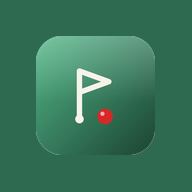
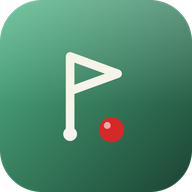
Add files via upload

diff --git a/index.html b/index.html
@@ -6,10 +6,10 @@
 <meta name="apple-mobile-web-app-capable" content="yes">
 <meta name="mobile-web-app-capable" content="yes">
 <meta name="apple-mobile-web-app-status-bar-style" content="black-translucent">
-<meta name="apple-mobile-web-app-title" content="SwingUp Télémètre">
+<meta name="apple-mobile-web-app-title" content="SwingUp - Télémètre">
 <meta name="theme-color" content="#1b4332">
 <meta name="description" content="Télémètre de golf : distances aux greens, dénivelé et club conseillé, sur vue satellite.">
-<title>SwingUp — Télémètre</title>
+<title>SwingUp - Télémètre</title>
 <link rel="manifest" href="manifest.json">
 <link rel="icon" href="favicon.ico" sizes="any">
 <link rel="apple-touch-icon" href="icons/icon-180.png">
@@ -35,7 +35,7 @@ body{font-family:'Outfit',system-ui,-apple-system,sans-serif;color:var(--ink);
 .hidden{display:none!important}
 .mark{border-radius:6px;flex:0 0 auto;display:grid;place-items:center;overflow:hidden;
   background:linear-gradient(145deg,#52b788,#1b4332);box-shadow:inset 0 1px 0 rgba(255,255,255,.25),0 10px 22px -10px rgba(0,0,0,.6)}
-.mark img{width:100%;height:100%;object-fit:cover;display:block}
+.mark svg{width:60%;height:60%}
 
 /* ================= connexion ================= */
 #auth{position:fixed;inset:0;z-index:900;overflow-y:auto;display:flex;flex-direction:column;justify-content:center;
@@ -72,18 +72,23 @@ body{font-family:'Outfit',system-ui,-apple-system,sans-serif;color:var(--ink);
 
 /* ================= application ================= */
 #app{height:100dvh;display:flex;flex-direction:column;max-width:560px;margin:0 auto;position:relative}
-.topbar{flex:0 0 auto;display:flex;align-items:center;gap:12px;
-  padding:calc(12px + env(safe-area-inset-top)) 16px 12px;
-  background:linear-gradient(180deg,rgba(15,42,26,.97) 0%,rgba(15,42,26,.9) 70%,rgba(15,42,26,.82) 100%);
-  -webkit-backdrop-filter:blur(10px);backdrop-filter:blur(10px)}
-.topbar .mark{width:42px;height:42px}
-.tbmeta{flex:1;min-width:0}
-.tbmeta .l1{color:var(--cream);font-family:var(--serif);font-weight:600;font-size:1.02rem;line-height:1.1;white-space:nowrap;overflow:hidden;text-overflow:ellipsis}
-.tbmeta .l2{color:var(--green-glow);font-size:.68rem;font-weight:600;letter-spacing:.14em;text-transform:uppercase;margin-top:4px;white-space:nowrap;overflow:hidden;text-overflow:ellipsis}
-.acctbtn{flex:0 0 auto;display:flex;align-items:center;gap:8px;background:rgba(246,243,233,.12);border:none;border-radius:999px;padding:5px 5px 5px 11px;cursor:pointer;color:var(--cream);font-family:'Outfit',sans-serif;font-size:.8rem;font-weight:600;max-width:132px}
+header{flex:0 0 auto;padding:calc(14px + env(safe-area-inset-top)) 14px 12px;display:flex;align-items:center;gap:12px}
+header .mark{width:46px;height:46px}
+.brand{flex:1;min-width:0}
+.brand h1{font-family:var(--serif);font-weight:900;color:var(--cream);font-size:1.32rem;line-height:1;letter-spacing:-.01em;white-space:nowrap;overflow:hidden;text-overflow:ellipsis}
+.brand p{color:var(--green-glow);font-size:.72rem;font-weight:500;letter-spacing:.18em;text-transform:uppercase;margin-top:5px;white-space:nowrap;overflow:hidden;text-overflow:ellipsis}
+.betapill{flex:0 0 auto;align-self:center;margin-left:2px;font-size:.58rem;font-weight:700;letter-spacing:.14em;
+  text-transform:uppercase;color:var(--green-deep);background:var(--green-glow);padding:3px 8px;border-radius:999px}
+.betapill.hidden{display:none}
+.acctbtn{flex:0 0 auto;display:flex;align-items:center;gap:8px;background:rgba(246,243,233,.12);border:none;border-radius:999px;padding:6px 6px 6px 12px;cursor:pointer;color:var(--cream);font-family:'Outfit',sans-serif;font-size:.82rem;font-weight:600;max-width:150px}
 .acctbtn .who{overflow:hidden;text-overflow:ellipsis;white-space:nowrap}
-.acctbtn .av{width:28px;height:28px;border-radius:50%;flex:0 0 auto;display:grid;place-items:center;background:linear-gradient(145deg,#52b788,#1b4332);font-family:var(--serif);font-weight:900;font-size:.85rem;color:#fff}
-.propill{font-size:.56rem;font-weight:700;letter-spacing:.12em;text-transform:uppercase;background:rgba(201,162,39,.24);color:#f0d878;padding:3px 7px;border-radius:999px}
+.acctbtn .av{width:30px;height:30px;border-radius:50%;flex:0 0 auto;display:grid;place-items:center;background:linear-gradient(145deg,#52b788,#1b4332);font-family:var(--serif);font-weight:900;font-size:.9rem;color:#fff}
+.propill{font-size:.58rem;font-weight:700;letter-spacing:.12em;text-transform:uppercase;background:rgba(201,162,39,.22);color:#8a6f00;padding:3px 8px;border-radius:999px;margin-left:2px}
+.accbtns{display:grid;gap:8px;margin-top:14px}
+.accbtns .btn{width:100%}
+.hintsm{font-size:.74rem;color:#8b8770;line-height:1.4;margin-top:10px}
+.modpriv{text-align:center;margin-top:14px;font-size:.76rem}
+.modpriv a{color:#8b8770;text-decoration:underline;text-underline-offset:3px}
 
 /* ---------- carte ---------- */
 #map{flex:1 1 auto;min-height:0;position:relative;overflow:hidden;background:#0b1f16;touch-action:none}
@@ -287,7 +292,7 @@ body{font-family:'Outfit',system-ui,-apple-system,sans-serif;color:var(--ink);
 <section id="auth" class="hidden">
   <div class="auth-wrap">
     <div class="auth-head">
-      <div class="mark"><img src="icons/icon-192.png" alt=""></div>
+      <div class="mark"><svg viewBox="0 0 24 24" fill="none"><path d="M6 21V3l11 4-11 4" stroke="#f6f3e9" stroke-width="2" stroke-linejoin="round"/><circle cx="6" cy="21" r="1.6" fill="#f6f3e9"/><circle cx="14" cy="19" r="2.6" fill="#d62828"/></svg></div>
       <h1 data-t>Télémètre</h1>
       <p data-t id="authTagline">Connecte-toi pour retrouver tes parcours</p>
     </div>
@@ -328,14 +333,12 @@ body{font-family:'Outfit',system-ui,-apple-system,sans-serif;color:var(--ink);
 <!-- ====================== APPLICATION ====================== -->
 <div id="app" class="hidden">
 
-  <div class="topbar">
-    <div class="mark"><img src="icons/icon-192.png" alt=""></div>
-    <div class="tbmeta">
-      <div class="l1" data-t>Télémètre</div>
-      <div class="l2" id="courseName" data-t>Chargement des parcours…</div>
-    </div>
-    <button class="acctbtn" id="btnAcct"><span class="who" id="acctWho">—</span><span class="av" id="acctAv">?</span></button>
-  </div>
+  <header>
+    <div class="mark"><svg viewBox="0 0 24 24" fill="none"><path d="M6 21V3l11 4-11 4" stroke="#f6f3e9" stroke-width="2" stroke-linejoin="round"/><circle cx="6" cy="21" r="1.6" fill="#f6f3e9"/><circle cx="14" cy="19" r="2.6" fill="#d62828"/></svg></div>
+    <div class="brand"><h1 data-t>Télémètre</h1><p id="courseName" data-t>Chargement des parcours…</p></div>
+    <span class="betapill hidden" id="betaPill">Bêta</span>
+    <button class="acctbtn" id="btnAcct" aria-label="Mon compte"><span class="who" id="acctWho">—</span><span class="av" id="acctAv">?</span></button>
+  </header>
 
   <div id="map">
     <div id="mapInner"></div>
@@ -428,7 +431,7 @@ body{font-family:'Outfit',system-ui,-apple-system,sans-serif;color:var(--ink);
 <!-- ====================== SAC ====================== -->
 <div id="bag" role="dialog">
   <div id="bagTop">
-    <div class="mark"><img src="icons/icon-192.png" alt=""></div>
+    <div class="mark"><svg viewBox="0 0 24 24" fill="none"><path d="M6 21V3l11 4-11 4" stroke="#f6f3e9" stroke-width="2" stroke-linejoin="round"/><circle cx="6" cy="21" r="1.6" fill="#f6f3e9"/><circle cx="14" cy="19" r="2.6" fill="#d62828"/></svg></div>
     <h2 data-t>Mon sac</h2>
     <button class="tbtn" id="bagClose" data-t>Fermer</button>
   </div>
@@ -493,7 +496,7 @@ body{font-family:'Outfit',system-ui,-apple-system,sans-serif;color:var(--ink);
 <script>
 /* Numéro de version : à comparer avec celui affiché dans le diagnostic
    pour vérifier que le téléphone sert bien la dernière mise en ligne. */
-const BUILD = 'tel-2026-08-14-b';
+const BUILD = 'tel-2026-08-14-d';
 
 /* Capture des erreurs le plus tôt possible : une erreur de syntaxe dans
    la configuration collée casse tout le script, et sans ça l'écran reste
@@ -550,7 +553,26 @@ const ARCGIS = { key:'A_REMPLIR' };
    Laisser A_REMPLIR retombe sur l'ancien circuit (fenêtre / redirection).
    ======================================================================= */
 const GOOGLE = { clientId:'287840826427-4vmhf2pgan0v5hqhab66hhmuivvmil7d.apps.googleusercontent.com' };
-const gisPret = () => GOOGLE.clientId && GOOGLE.clientId.indexOf('A_REMPLIR') < 0;
+
+/* =======================================================================
+   ▼▼▼  MÉTHODE DE CONNEXION GOOGLE  ▼▼▼
+
+   'firebase' — identique à SwingUpPro : signInWithPopup, puis redirection
+                si la fenêtre est refusée. Rien à configurer côté Google
+                Cloud. En revanche tout transite par firebaseapp.com, que
+                Chrome cloisonne : la connexion Google échoue dans
+                l'application installée sur mobile.
+
+   'google'   — Google Identity Services. Fonctionne partout, y compris en
+                application installée, mais impose de renseigner l'écran de
+                consentement OAuth (Branding + Audience) dans Google Cloud.
+
+   Dans les deux cas, la connexion par e-mail fonctionne sans restriction.
+   ======================================================================= */
+const AUTH_MODE = 'firebase';
+
+const gisPret = () => AUTH_MODE === 'google'
+  && GOOGLE.clientId && GOOGLE.clientId.indexOf('A_REMPLIR') < 0;
 
 /* =======================================================================
    ▼▼▼  ABONNEMENT PREMIUM — compte Stripe PROPRE au télémètre  ▼▼▼
@@ -591,7 +613,7 @@ en:{
 'Adresse e-mail':'Email address','Mot de passe':'Password','ou':'or',
 'Continuer avec Google':'Continue with Google','Mot de passe oublié ?':'Forgot your password?',
 'Continuer sans compte':'Continue without an account',
-'Sans compte, tes greens restent sur cet appareil.':'Without an account, your greens stay on this device.',
+'Sans abonnement, les greens ne sont pas conservés.':'Without an account, your greens stay on this device.',
 'Avec un compte Premium, ils te suivent partout.':'With a Premium account, they follow you everywhere.',
 'Politique de confidentialité':'Privacy policy','Chargement des parcours…':'Loading courses…',
 'Parcours chargés':'Courses loaded','Aucun parcours trouvé':'No course found',
@@ -619,13 +641,20 @@ en:{
 'Gérer mon abonnement':'Manage my subscription','Premium activé':'Premium activated',
 'Greens synchronisés':'Greens synced','Hors ligne : synchro différée':'Offline: sync deferred',
 'Le paiement arrive bientôt.':'Payment is coming soon.',
-'Tes greens sont enregistrés sur cet appareil uniquement.':'Your greens are saved on this device only.',
+'Tes greens ne sont pas conservés.':'Your greens are not kept.',
 'Tes greens sont sauvegardés sur ton compte.':'Your greens are backed up to your account.',
 'Sauvegarde et synchronisation':'Backup and sync',
-'Tes greens tracés te suivent sur tous tes appareils, et rien ne se perd si tu changes de téléphone.':'Your greens follow you on every device, and nothing is lost if you change phone.',
+'Sans abonnement, les greens que tu traces disparaissent à la fermeture. Avec Premium, ils sont conservés et te suivent sur tous tes appareils.':'Without a subscription, the greens you map are lost when you close the app. With Premium they are kept and follow you on every device.',
 'Parcours illimités':'Unlimited courses','Cartographie sans limite de nombre de greens.':'Map as many greens as you like.',
 'Mesure et création restent gratuites':'Measuring and mapping stay free',
 "L'abonnement ne porte que sur la sauvegarde en ligne.":'The subscription only covers online backup.',
+'Accès complet offert':'Full access included',"jusqu'au":'until','Offre gratuite':'Free plan',
+'Greens non sauvegardés':'Greens are not saved','Découvrir Premium':'Discover Premium',
+'Connecté·e en tant que':'Signed in as','Ton nom':'Your name','Nom mis à jour':'Name updated',
+'Accès bêta-testeur':'Beta tester access',"Accès complet conservé, sans abonnement. Merci d'avoir été là au début.":'Full access kept, no subscription. Thank you for being there at the start.',
+"Période d'essai":'Trial period','Mode invité':'Guest mode',
+"Ton compte utilise la connexion Google : l'adresse e-mail et le mot de passe se gèrent depuis ton compte Google.":'Your account uses Google sign-in: email and password are managed from your Google account.',
+'{n} green(s) tracé(s) — non sauvegardés. Ils disparaîtront à la fermeture.':'{n} green(s) mapped — not saved. They will be lost when you close the app.',
 'Créer un compte pour sauvegarder':'Create an account to save'
 },
 
@@ -667,9 +696,9 @@ const Store=(()=>{let mem={},ok=true;
          del(k){try{ok?localStorage.removeItem(k):delete mem[k]}catch(e){delete mem[k]}}};
 })();
 
+/* La langue suit celle du téléphone, comme dans SwingUpPro :
+   aucun sélecteur, aucun réglage à mémoriser. */
 function langueParDefaut(){
-  const choisi=Store.get('lang');
-  if(choisi&&LANGUES.indexOf(choisi)>=0)return choisi;
   const n=((navigator.languages&&navigator.languages[0])||navigator.language||LANGUE_DEFAUT).slice(0,2).toLowerCase();
   return LANGUES.indexOf(n)>=0?n:LANGUE_DEFAUT;
 }
@@ -783,9 +812,9 @@ function ecranPremium(origine){
   openModal('<h3>'+esc(PREMIUM.name)+'</h3>'
     +'<p class="txt">'+esc(origine||T("L'abonnement ne porte que sur la sauvegarde en ligne."))+'</p>'
     +'<div class="plan">'
-    +feat(T('Sauvegarde et synchronisation'),T('Tes greens tracés te suivent sur tous tes appareils, et rien ne se perd si tu changes de téléphone.'))
+    +feat(T('Sauvegarde et synchronisation'),T('Sans abonnement, les greens que tu traces disparaissent à la fermeture. Avec Premium, ils sont conservés et te suivent sur tous tes appareils.'))
     +feat(T('Parcours illimités'),T('Cartographie sans limite de nombre de greens.'))
-    +feat(T('Mesure et création restent gratuites'),T("L'abonnement ne porte que sur la sauvegarde en ligne."))
+    +feat(T('Mesure et cartographie restent gratuites'),T("L'abonnement ne porte que sur la conservation de tes tracés."))
     +'<div class="price">'+esc(PREMIUM.price)+'</div><p class="pnote">'+esc(PREMIUM.note)+'</p></div>'
     +(BETA.actif?'<div class="subline on"><b>'+esc(T('Version bêta'))+'</b><span>'+esc(T('Tout est ouvert jusqu\'au {d}.',{d:BETA.fin}))+'</span></div>':'')
     +'<div class="row">'
@@ -896,9 +925,13 @@ function initGIS(){
    fermée par le navigateur avant d'avoir rendu la main : on redirige.
    Le résultat est récupéré au retour par getRedirectResult(). */
 function popupPossible(){
+  /* En mode 'firebase', on reproduit SwingUpPro : la fenêtre surgissante
+     est tentée en premier, sauf en application installée où elle n'existe
+     pas et où seule la redirection peut aboutir. */
   const standalone = matchMedia('(display-mode: standalone)').matches
     || matchMedia('(display-mode: fullscreen)').matches
     || navigator.standalone === true;
+  if (AUTH_MODE === 'firebase') return !standalone;
   const mobile = /Android|iPhone|iPad|iPod|Mobile/i.test(navigator.userAgent);
   return !standalone && !mobile;
 }
@@ -938,7 +971,7 @@ async function verifierRedirection(){
       Store.del('gRedirect');
       $id('auth').classList.remove('hidden');
       const el=$id('authErr');
-      el.textContent=T("Ton navigateur a bloqué le retour de Google. Utilise l'adresse e-mail.");
+      el.textContent=T("Ton navigateur a bloqué le retour de Google. Connecte-toi avec ton adresse e-mail.");
       el.classList.remove('hidden');
     }
   }catch(e){
@@ -972,41 +1005,58 @@ async function pullProfil(){
   }catch(e){ console.warn('Lecture profil échouée :',e); }
 }
 function majCompteUI(){
+  const bp=$id('betaPill'); if(bp)bp.classList.toggle('hidden',!BETA.actif);
   const nom=invite?T('Invité'):(profileName||T('Compte'));
   $id('acctWho').textContent=nom;
   $id('acctAv').textContent=(nom[0]||'?').toUpperCase();
 }
 function ecranCompte(){
-  const cloud=peutSauvegarderCloud();
-  let h='<h3>'+esc(T('Mon compte'))+'</h3>';
-  h+='<p class="txt">'+esc(invite?T('Mode invité'):(currentUser?currentUser.email||profileName:''))+'</p>';
-  h+='<div class="subline'+(cloud?' on':'')+'"><b>'+esc(cloud?T('Tes greens sont sauvegardés sur ton compte.'):T('Tes greens sont enregistrés sur cet appareil uniquement.'))+'</b>'
-    +'<span>'+esc(BETA.actif?T('Version bêta')+' · '+BETA.fin:PREMIUM.priceShort)+'</span></div>';
-  h+='<div class="list">';
-  h+='<button id="acLang"><span class="gl"><svg viewBox="0 0 24 24" width="15" height="15" fill="none" stroke="currentColor" stroke-width="2"><circle cx="12" cy="12" r="9"/><path d="M3 12h18M12 3a15 15 0 0 1 0 18a15 15 0 0 1 0-18"/></svg></span><span><b>'+esc(T('Langue'))+'</b><small>'+esc(NOMS_LANGUES[LANG])+'</small></span></button>';
-  h+='<button id="acPrem"><span class="gl"><svg viewBox="0 0 24 24" width="15" height="15" fill="none" stroke="currentColor" stroke-width="2" stroke-linecap="round" stroke-linejoin="round"><path d="M12 2l3 6 6 .9-4.5 4.3 1.1 6.3L12 16.5 6.4 19.5l1.1-6.3L3 8.9 9 8z"/></svg></span><span><b>'+esc(PREMIUM.name)+'</b><small>'+esc(T('Sauvegarde dans le cloud'))+'</small></span></button>';
-  h+='<button id="acPriv"><span class="gl"><svg viewBox="0 0 24 24" width="15" height="15" fill="none" stroke="currentColor" stroke-width="2"><path d="M12 3l7 3v6c0 4.5-3 8-7 9-4-1-7-4.5-7-9V6z"/></svg></span><span><b>'+esc(T('Politique de confidentialité'))+'</b></span></button>';
-  if(currentUser)h+='<button id="acOut" class="dgr"><span class="gl"><svg viewBox="0 0 24 24" width="15" height="15" fill="none" stroke="currentColor" stroke-width="2" stroke-linecap="round" stroke-linejoin="round"><path d="M9 21H5a2 2 0 0 1-2-2V5a2 2 0 0 1 2-2h4M16 17l5-5-5-5M21 12H9"/></svg></span><span><b>'+esc(T('Se déconnecter'))+'</b></span></button>';
-  else h+='<button id="acIn"><span class="gl"><svg viewBox="0 0 24 24" width="15" height="15" fill="none" stroke="currentColor" stroke-width="2" stroke-linecap="round" stroke-linejoin="round"><path d="M15 3h4a2 2 0 0 1 2 2v14a2 2 0 0 1-2 2h-4M10 17l5-5-5-5M15 12H3"/></svg></span><span><b>'+esc(T('Créer un compte pour sauvegarder'))+'</b></span></button>';
-  h+='</div><div class="row"><button class="btn btn-ghost" id="mClose">'+esc(T('Fermer'))+'</button></div>';
-  openModal(h);
-  $id('mClose').onclick=closeModal;
-  $id('acLang').onclick=ecranLangue;
-  $id('acPrem').onclick=()=>ecranPremium();
-  $id('acPriv').onclick=()=>window.open(PAGE_POLITIQUE(),'_blank','noopener');
-  if($id('acOut'))$id('acOut').onclick=async()=>{closeModal();try{await auth.signOut();}catch(e){}location.reload();};
-  if($id('acIn'))$id('acIn').onclick=()=>{closeModal();invite=false;Store.del('invite');$id('app').classList.add('hidden');$id('auth').classList.remove('hidden');};
-}
-function ecranLangue(){
-  let h='<h3>'+esc(T('Langue'))+'</h3><div class="list">';
-  LANGUES.forEach(l=>{h+='<button data-l="'+l+'"><span><b>'+esc(NOMS_LANGUES[l])+'</b></span></button>';});
-  h+='</div><div class="row"><button class="btn btn-ghost" id="mClose">'+esc(T('Fermer'))+'</button></div>';
-  openModal(h);
-  $id('mClose').onclick=closeModal;
-  document.querySelectorAll('#overlay [data-l]').forEach(b=>b.onclick=async()=>{
-    LANG=b.dataset.l;Store.set('lang',LANG);appliquerLangue();majOngletsAuth();closeModal();
-    if(fbReady&&currentUser){try{await fs.collection('users').doc(currentUser.uid).set({lang:LANG},{merge:true});}catch(e){}}
-  });
+  const ok=isPremium(), betaTesteur=!BETA.actif&&accountCreated&&BETA.limite&&accountCreated<=BETA.limite;
+  const jusqu=premium&&premium.until?' · '+T("jusqu'au")+' '+new Date(premium.until).toLocaleDateString():'';
+  let abo;
+  if(BETA.actif){
+    abo='<div class="subline on"><b>'+esc(T('Version bêta'))+'</b><span>'+esc(T('Accès complet offert'))+' '+esc(T("jusqu'au"))+' '+esc(BETA.fin)+'</span></div>';
+  }else if(betaTesteur){
+    abo='<div class="subline on"><b>'+esc(T('Accès bêta-testeur'))+'</b><span>'+esc(T("Accès complet conservé, sans abonnement. Merci d'avoir été là au début."))+'</span></div>';
+  }else if(ok){
+    abo='<div class="subline on"><b>'+esc(PREMIUM.name)+'</b><span>'+esc(premium&&premium.status==='trialing'?T("Période d'essai"):T('Abonnement actif'))+esc(jusqu)+'</span></div>'
+      +(PREMIUM.portalUrl?'<button class="btn btn-ghost" id="mPortal" style="margin-top:10px">'+esc(T('Gérer mon abonnement'))+'</button>':'');
+  }else{
+    abo='<div class="subline"><b>'+esc(T('Offre gratuite'))+'</b><span>'+esc(T('Greens non sauvegardés'))+'</span></div>'
+      +'<button class="btn btn-primary" id="mUp" style="margin-top:10px">'+esc(T('Découvrir Premium'))+'</button>';
+  }
+  const parMdp=!!(currentUser&&currentUser.providerData&&currentUser.providerData.some(p=>p&&p.providerId==='password'));
+  openModal('<h3>'+esc(T('Mon compte'))+'</h3>'
+    +'<p class="txt">'+(invite||!currentUser
+        ? esc(T('Mode invité'))
+        : esc(T('Connecté·e en tant que'))+' <b>'+esc(currentUser.email||'')+'</b>'+(parMdp?'':' <span class="propill">Google</span>'))+'</p>'
+    +abo
+    +(currentUser?'<input id="mName" type="text" maxlength="14" value="'+esc(profileName)+'" placeholder="'+esc(T('Ton nom'))+'">':'')
+    +'<div class="accbtns">'
+    +(currentUser&&!parMdp?'<p class="hintsm">'+esc(T("Ton compte utilise la connexion Google : l'adresse e-mail et le mot de passe se gèrent depuis ton compte Google."))+'</p>':'')
+    +'</div>'
+    +'<div class="row">'
+    +(currentUser
+        ? '<button class="btn btn-ghost" id="mLogout">'+esc(T('Se déconnecter'))+'</button><button class="btn btn-primary" id="mOk">'+esc(T('Enregistrer'))+'</button>'
+        : '<button class="btn btn-ghost" id="mClose">'+esc(T('Fermer'))+'</button><button class="btn btn-primary" id="mIn">'+esc(T('Créer un compte'))+'</button>')
+    +'</div>'
+    +'<p class="modpriv"><a href="'+PAGE_POLITIQUE()+'" target="_blank" rel="noopener">'+esc(T('Politique de confidentialité'))+'</a></p>');
+  const up=$id('mUp'); if(up)up.onclick=()=>{closeModal();ecranPremium();};
+  const po=$id('mPortal'); if(po)po.onclick=openPortal;
+  const cl=$id('mClose'); if(cl)cl.onclick=closeModal;
+  const si=$id('mIn'); if(si)si.onclick=()=>{closeModal();invite=false;Store.del('invite');$id('app').classList.add('hidden');$id('auth').classList.remove('hidden');};
+  const lo=$id('mLogout'); if(lo)lo.onclick=async()=>{closeModal();try{await auth.signOut();}catch(e){}location.reload();};
+  const okb=$id('mOk');
+  if(okb)okb.onclick=async()=>{
+    const v=($id('mName')||{}).value?$id('mName').value.trim():'';
+    if(v&&v!==profileName){
+      profileName=v.slice(0,14);
+      try{ await currentUser.updateProfile({displayName:profileName}); }catch(e){}
+      if(fbReady)fs.collection('users').doc(currentUser.uid).set({name:profileName},{merge:true}).catch(()=>{});
+      majCompteUI(); toast(T('Nom mis à jour'));
+    }
+    closeModal();
+  };
 }
 
 /* ---------- mesure d'audience ---------- */
@@ -1766,14 +1816,29 @@ function pushDraft(ll){
   S.draft.forEach(p => L.circleMarker(p, { radius:4, color:"#C9A227", fillOpacity:1, interactive:false }).addTo(tmpLayer));
   msg(L_("{n} point(s) — 3 minimum, puis Garder.",{n:S.draft.length}));
 }
-function readCustom(){ try{ return (JSON.parse(Store.get(KEY))||[]).map(g=>({...g, src:"draw", mk:g.mk||"draw"})); }catch(e){ return []; } }
+/* La conservation des greens — sur l'appareil comme dans le cloud — est
+   une fonction Premium. Sans abonnement, ils vivent le temps de la session
+   et disparaissent à la fermeture : rien n'est écrit sur le téléphone. */
+function readCustom(){
+  if (!peutSauvegarderCloud()){ Store.del(KEY); return []; }
+  try{ return (JSON.parse(Store.get(KEY))||[]).map(g=>({...g, src:"draw", mk:g.mk||"draw"})); }catch(e){ return []; }
+}
 function serialiserGreens(){
   return S.greens.filter(g=>g.src==="draw")
     .map(g => ({ id:g.id, name:g.name, coords:g.coords, mk:g.mk||"draw", c:g.c||null, r:g.r||null }));
 }
 function writeCustom(){
+  if (!peutSauvegarderCloud()){ Store.del(KEY); majBandeauFree(); return; }
   try{ Store.set(KEY, JSON.stringify(serialiserGreens())); }catch(e){}
   pushGreens();
+}
+
+/* Un rappel discret tant que les greens ne sont pas conservés. */
+function majBandeauFree(){
+  if (peutSauvegarderCloud()){ hideWarn(); return; }
+  const n = S.greens.filter(g => g.src === "draw").length;
+  if (!n) return;
+  warn(L_("{n} green(s) tracé(s) — non sauvegardés. Ils disparaîtront à la fermeture.",{n:n}));
 }
 
 /* ---------- synchronisation cloud ----------
@@ -1786,7 +1851,7 @@ function parcoursId(){
   return "c" + Math.round(S.pos.lat*50) + "_" + Math.round(S.pos.lon*50);
 }
 function pushGreens(){
-  if (!peutSauvegarderCloud()) return;
+  if (!peutSauvegarderCloud()){ majBandeauFree(); return; }
   clearTimeout(pushT);
   pushT = setTimeout(async () => {
     if (pushEnCours) return;

diff --git a/sw.js b/sw.js
@@ -4,7 +4,7 @@
    la carte de score, même si les deux sont sur le même domaine.
    Incrémenter CACHE_VERSION à chaque mise en ligne.
    ========================================================= */
-const CACHE_VERSION = 'swingup-telemetre-v3';
+const CACHE_VERSION = 'swingup-telemetre-v5';
 
 const APP_SHELL = [
   './',
